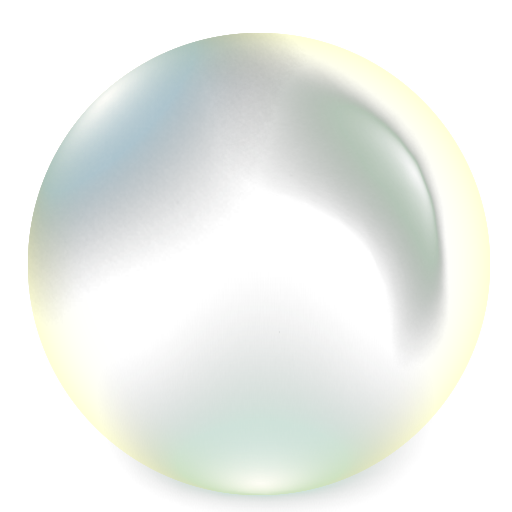
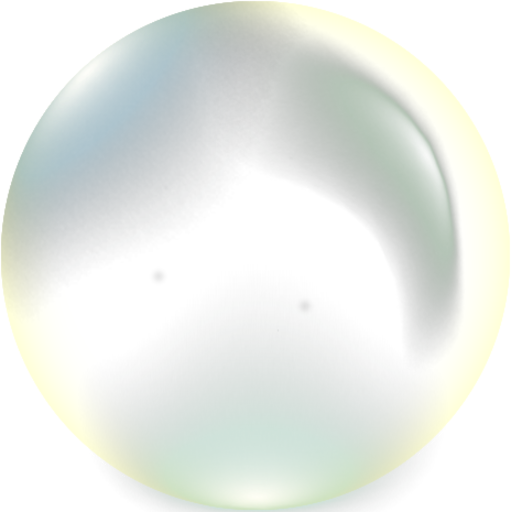
Render bubbles and text on screen

Changed region(s): [[0.0, 0.0, 0.998, 1.0], [0.6164, 0.375, 0.7926, 0.625], [0.5871, 0.3438, 0.6164, 0.375]]

diff --git a/Bubble.js b/Bubble.js
@@ -1,0 +1,43 @@
+function Bubble(game, cx, cy, r, num) {
+    this.game = game;
+
+    this.cx = cx;
+    this.cy = cy;
+
+    this.r = r;
+
+    this.num = num;
+
+    // Get image dimensions
+    var imgprops = game.cache.getImage(Globals.handles.bubble);
+    var w = imgprops.width;
+    var h = imgprops.height;
+
+    // Scale to desired radius
+    var sx = 2*r / w;
+    var sy = 2*r / h;
+
+    // Apply sprite scaling
+    this.sprite = game.add.sprite(cx, cy, Globals.handles.bubble);
+    this.sprite.anchor.setTo(0.5, 0.5);
+    this.sprite.scale.setTo(sx, sy);
+
+    // Set font settings
+    //      TODO: Set size based on radius
+    //      TODO: Figure out why it's not vertically aligned
+    this.numText = game.add.text(cx, cy, num.toString(), {
+        font: "bold 32px Courier",
+        fill: "#ffffff",
+        boundsAlignH: "center",
+        boundsAlignV: "middle",
+    });
+    this.numText.anchor.setTo(0.5, 0.5);
+}
+
+Bubble.prototype.drawAt = function(x, y) {
+    this.sprite.position.x = x;
+    this.sprite.position.y = y;
+
+    this.numText.x = x;
+    this.numText.y = y;
+}

diff --git a/game.js b/game.js
@@ -58,6 +58,16 @@ window.onload = function() {
    
         Graphics.drawBackground(game);
 
+        var bubbles = [];
+        for (var i = 0; i < 10; i++) {
+            var cx = game.world.randomX;
+            var cy = game.world.randomY;
+
+            var num = game.rnd.integerInRange(0, 12);
+
+            bubbles.push(new Bubble(game, cx, cy, 30, num));
+        }
+
         game.input.gamepad.start();
 
         Globals.gamepad = game.input.gamepad.pad1;

diff --git a/index.html b/index.html
@@ -5,6 +5,7 @@
         <title>hello phaser!</title>
         <script src="//cdn.jsdelivr.net/phaser/2.5.0/phaser.min.js"></script>
         <script src="Globals.js"></script>
+        <script src="Bubble.js"></script>
         <script src="Graphics.js"></script>
         <script src="game.js"></script>
     </head>
